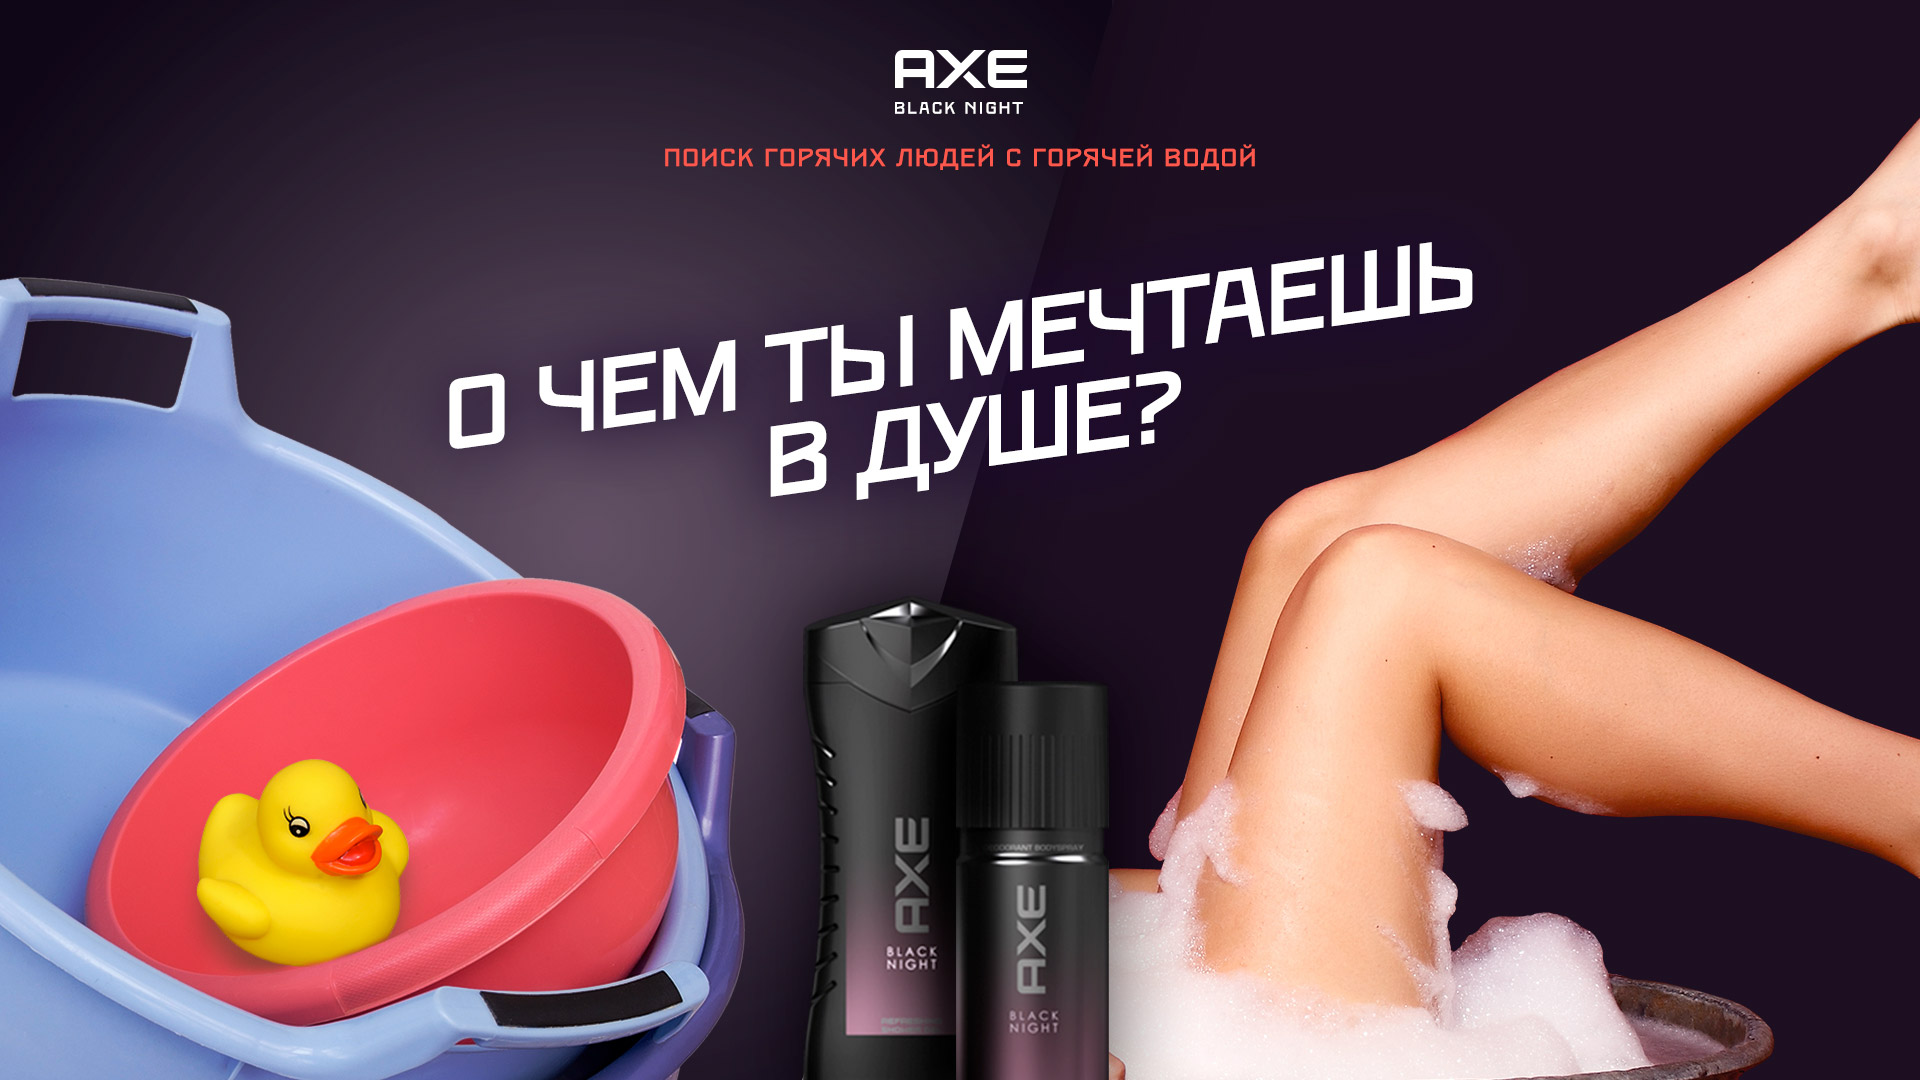
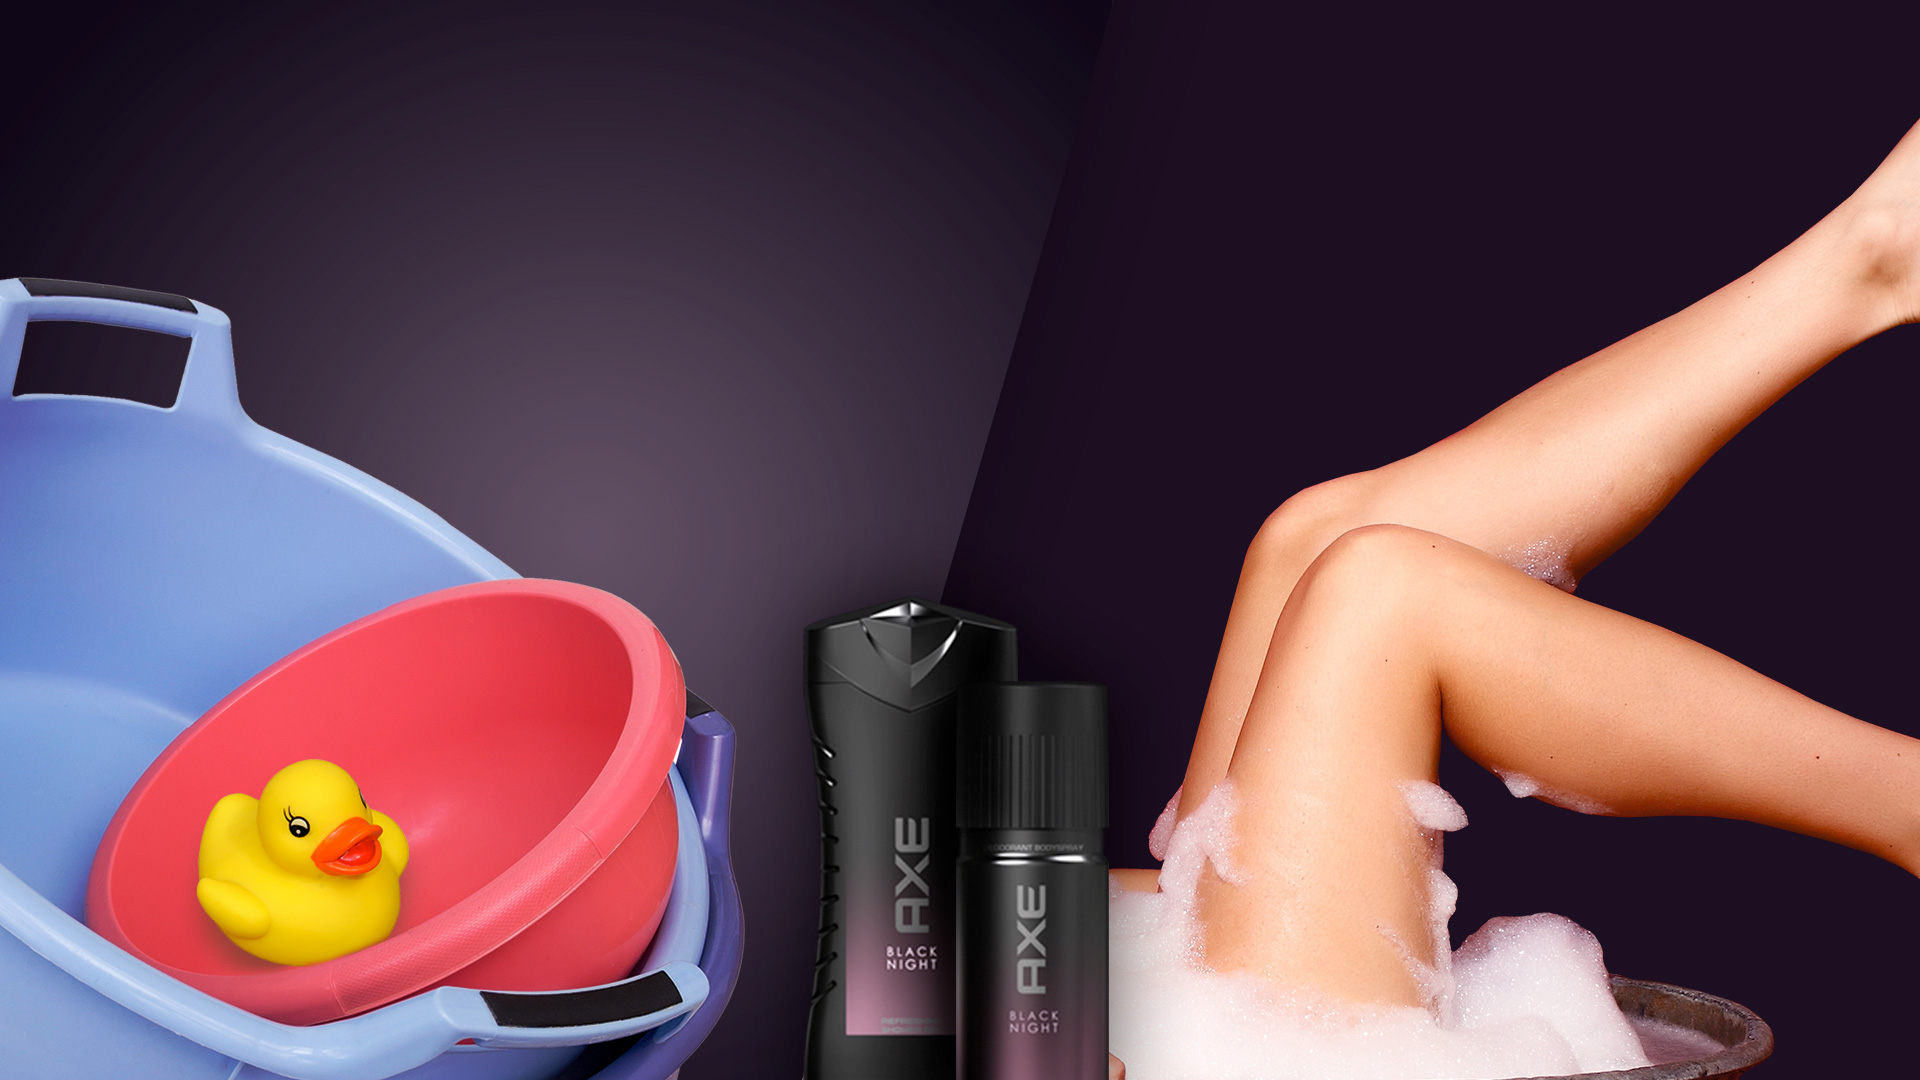
main page refactoring

Changed region(s): [[0.2188, 0.2139, 0.7812, 0.4583], [0.3438, 0.0306, 0.6562, 0.1528]]

diff --git a/assets/style.css b/assets/style.css
@@ -129,8 +129,8 @@ label {
  */
 
 .select-gender {
-    left: 2.5vw;
-    top: 2.5vw;
+    left: 12px;
+    top: 40px;
     z-index: 100;
     width: 10vw;
     height: 5vw;
@@ -345,6 +345,100 @@ label {
     z-index: 1;
     transition: right 300ms;
 }
+
+.top {
+    padding-top: 43px;
+    height: 103px
+}
+
+.content {
+    position: absolute;
+    top: 103px;
+    right: 0;
+    left: 0;
+    bottom: 0;
+
+    font-size: 16px;
+}
+
+.b_valign {
+    display: table;
+    width: 100%;
+    height: 100%;
+}
+
+.b_valign-cont {
+    display: table-cell;
+    vertical-align: middle;
+}
+
+.logo {
+    width: 66px;
+    height: 32px;
+    margin: 7px auto 12px;
+
+    background: url(logo.png);
+    background-size: 100% 100%;
+}
+
+.logo-sign {
+    font-size: 14px;
+    line-height: 16px;
+    color: #ff3f3c;
+}
+
+.heading {
+    transform: skew(-7.5deg) rotate(-7.5deg);
+    color: white;
+    padding: 2em 0 1em;
+
+    font-size: 3.125em;
+    line-height: 0.9em;
+    letter-spacing: -0.12em
+}
+
+.button-set {
+    padding: 3.125em 0;
+}
+
+.button-set .button {
+    margin: 0 10%;
+}
+
+.button {
+    transition: background .2s ease;
+    transform: skew(-7.5deg) rotate(-7.5deg);
+
+    position: relative;
+    display: inline-block;
+    padding: 0.64em 1.6em;
+
+    color: white;
+    font-size: 1.5625em;
+    line-height: 1em;
+    text-shadow: 1px 1px #000;
+
+    background: #2b182e;
+    background: rgba(43, 24, 46, 0.9);
+}
+
+@media screen and (max-height: 560px) {
+    .content {
+        font-size: 12px;
+    }
+}
+
+@media screen and (max-height: 400px) {
+    .content {
+        font-size: 10px;
+    }
+}
+
+.button:hover {
+    background: #be91a6;
+    background: rgba(190, 145, 166, 0.9);
+}
+
 .screen--for_man .screen__bg {
     background-image: url(man_start.jpg);
 }

diff --git a/index.php b/index.php
@@ -91,8 +91,21 @@
                 <div class="product"></div>
                 <div class="screen__bg">
                     <label for="for_girl" class="select-gender select-gender--man"></label>
-                    <label for="for_m_water" class="select-option select-option--water"></label>
-                    <label for="for_m_partner" class="select-option select-option--partner"></label>
+                    <div class="top">
+                        <div class="logo"></div>
+                        <div class="logo-sign">Поиск горячих людей с горячей водой</div>
+                    </div>
+                    <div class="content">
+                        <div class="b_valign">
+                            <div class="b_valign-cont">
+                                <h1 class="heading">О чем ты мечтаешь<br>в душе?</h1>
+                                <div class="button-set">
+                                    <label for="for_m_water" class="button">О горячей<br>воде</label>
+                                    <label for="for_m_partner" class="button">О горячей<br>девушке</label>
+                                </div>
+                            </div>
+                        </div>
+                    </div>
                 </div>
             </div>
 
